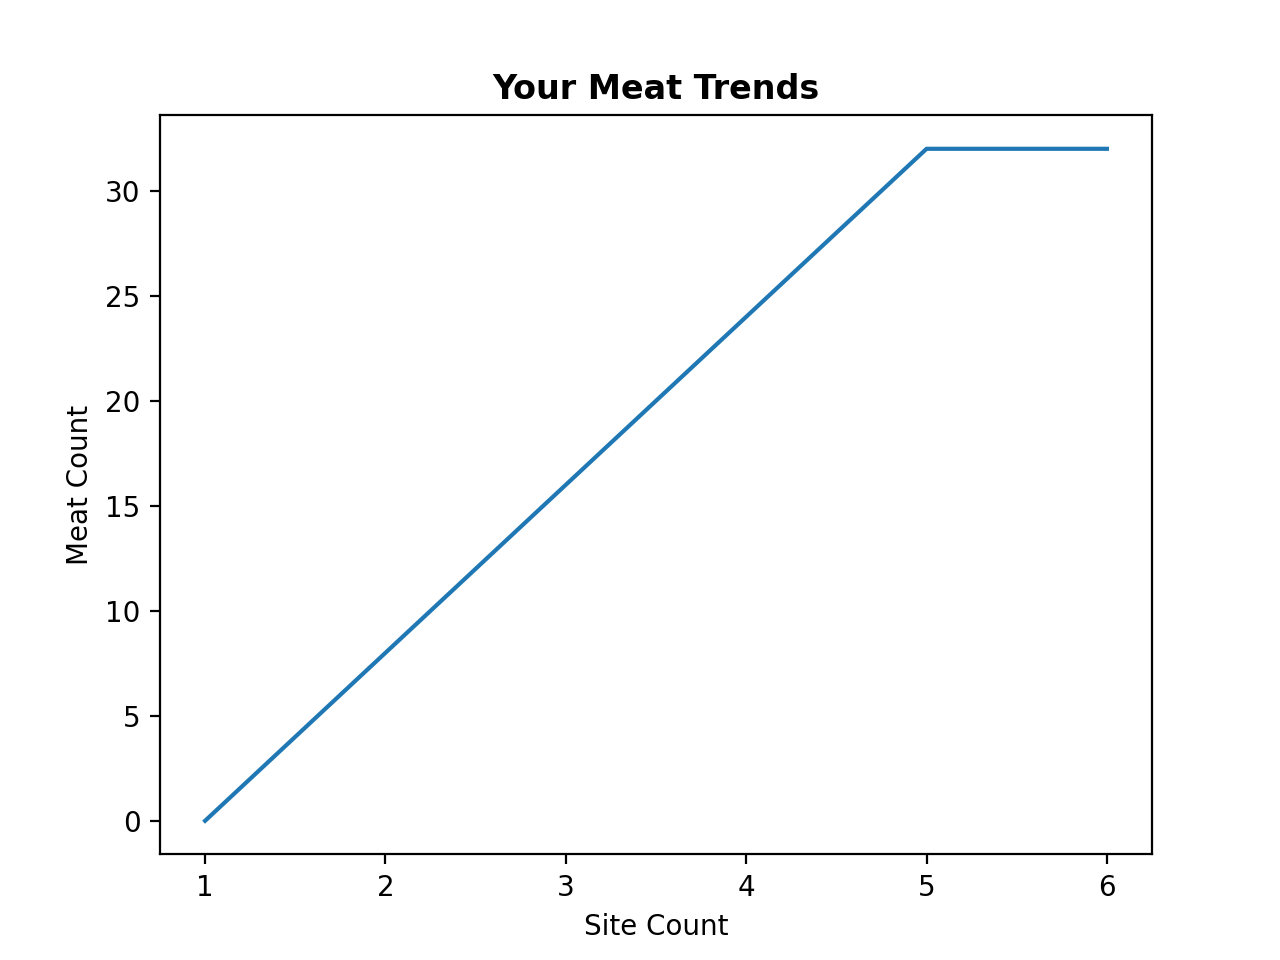
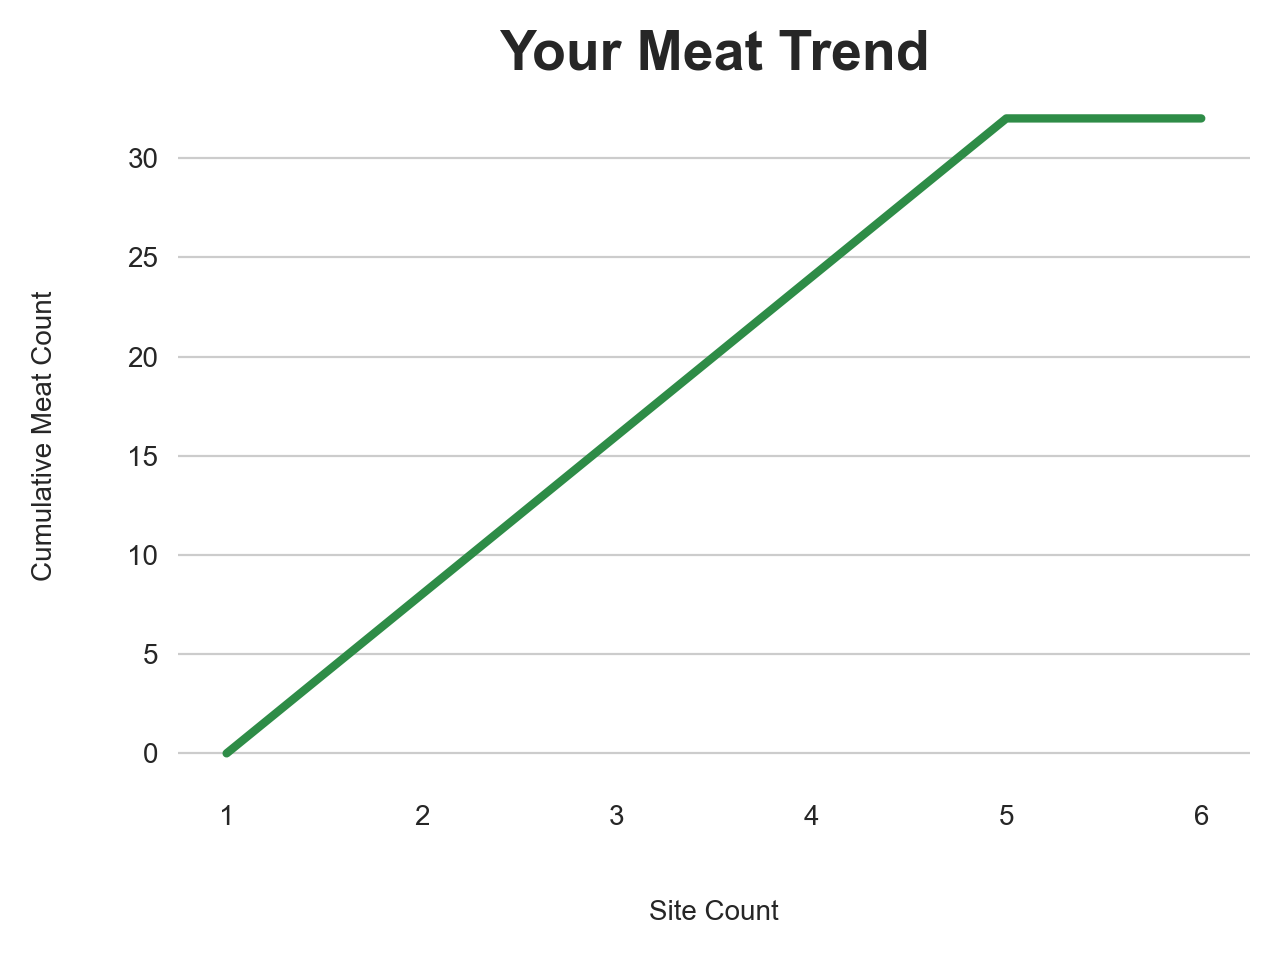
adding viz

diff --git a/HoyaHacks_pt2/flask_server.py b/HoyaHacks_pt2/flask_server.py
@@ -12,7 +12,7 @@ from matplotlib.figure import Figure
 
 from web_scraping import get_meats
 
-from random import choice
+from random import choice, randint
 from numpy import cumsum
 
 app = FlaskAPI(__name__)
@@ -74,9 +74,11 @@ def is_meat(input_url):
     return pass_back
 
 #PLOTS:
-#  -Meat trends over time
 #  -CO2 emissions reduction becuase of the meat that you didn't eat
 #  -Money savings
+#    -400g a day ==> 0.133 kilos a meal
+#    -1 kilo = 44.6 car miles of CO2 emission on avg
+#    ->Count the meals
 @app.route('/plots', methods = ['GET'])
 def make_plots():
     #Get meat count data
@@ -93,27 +95,59 @@ def make_plots():
     time_trend = cumsum(time_trend)
     x_axis = [i for i in range(1, len(time_trend) + 1)]
 
+    sns.set_style('whitegrid')
+
     fig = Figure()
     axis = fig.add_subplot(1, 1, 1)
-    sns.lineplot(x = x_axis, y = time_trend, ax = axis)
-    axis.set_title('Your Meat Trends', **{'fontweight' : 'bold'})
+    sns.lineplot(x = x_axis, y = time_trend, ax = axis, color = '#9c4c4c', linewidth = 3)
+    axis.set_title('Your Meat Trend', **{'fontweight' : 'bold', 'size' : 20})
     axis.set_xticks(range(1, len(time_trend) + 1))
     axis.set_yticks(range(0, max(time_trend) + 1, 5))
-    axis.set_xlabel('Site Count')
-    axis.set_ylabel('Meat Count')
+    axis.set_xlabel('Site Count', labelpad = 20)
+    axis.set_ylabel('Cumulative Meat Count', labelpad = 20)
+    axis.grid(False, axis = 'x')
+    axis.spines['right'].set_visible(False)
+    axis.spines['left'].set_visible(False)
+    axis.spines['top'].set_visible(False)
+    axis.spines['bottom'].set_visible(False)
 
-    plt_fp = 'meat_trend.png'
-    fig.savefig(plt_fp, dpi = 200)
+    plt_fp1 = 'meat_trend' + str(randint(0, 1000)) + '.png'
+    fig.tight_layout()
+    fig.savefig(plt_fp1, dpi = 200)
+
+    #CO2 reduction plot
+    had_meat = sum([our_person[s] > 0 for s in sorted(our_person) if s != 'meat_ct'])
+    ttl_meals = len(time_trend)
+    meat_eater = 0.133 * 44.6 * ttl_meals
+    our_person = 0.133 * 44.6 * had_meat
+
+    fig = Figure()
+    axis = fig.add_subplot(1, 1, 1)
+    axis.stem(['You'], [our_person], basefmt = ' ', linefmt = 'g', markerfmt = 'go')
+    axis.stem(['Meat Eater'], [meat_eater], basefmt = ' ', linefmt = 'r', markerfmt = 'ro')
+    axis.set_title('Carbon Emissions Reduction', **{'fontweight' : 'bold', 'size' : 20})
+    axis.set_ylabel('CO2 Emissions (car miles)', labelpad = 20)
+    axis.grid(False, axis = 'x')
+    axis.spines['right'].set_visible(False)
+    axis.spines['left'].set_visible(False)
+    axis.spines['top'].set_visible(False)
+    axis.spines['bottom'].set_visible(False)
+    axis.margins(x = 0.5)
+
+    plt_fp2 = 'C02_savings' + str(randint(0, 1000)) + '.png'
+    fig.savefig(plt_fp2, dpi = 200)
 
     #Push the plot into firebase + get URL
+    urls = []
     bucket = storage.bucket()
-    blob = bucket.blob(plt_fp)
-    blob.upload_from_filename(plt_fp)
+    for fp in [plt_fp1, plt_fp2]:
+        blob = bucket.blob(fp)
+        blob.upload_from_filename(fp)
 
-    blob.make_public()
-    plt_url = blob.public_url
+        blob.make_public()
+        urls.append(blob.public_url)
 
-    return {'urls' : [plt_url]}
+    return {'urls' : [urls]}
 
 if __name__ == '__main__':
     app.run(debug = True)

diff --git a/HoyaHacks_pt2/misc_testing.py b/HoyaHacks_pt2/misc_testing.py
@@ -75,7 +75,9 @@ if True:
     from matplotlib.figure import Figure
     from numpy import cumsum
 
-    our_person = {'site_1' : 3, 'site_2' : 4, 'meat_ct' : 90}
+    sns.set_style('whitegrid')
+
+    our_person = {'site_1' : 3, 'site_2' : 4, 'site_3' : 0, 'meat_ct' : 90}
     site_nums = [int(s.split('_')[1]) for s in our_person.keys() if s.split('_')[0] == 'site']
 
     time_trend = [our_person[s] for s in sorted(our_person) if s != 'meat_ct']
@@ -84,11 +86,39 @@ if True:
     x_axis = [i for i in range(1, len(time_trend) + 1)]
     print(x_axis)
 
+    had_meat = sum([our_person[s] > 0 for s in sorted(our_person) if s != 'meat_ct'])
+    ttl_meals = len(time_trend)
+    meat_eater = 0.133 * 44.6 * ttl_meals
+    our_person = 0.133 * 44.6 * had_meat
+    print(meat_eater, our_person)
+
     fig = Figure()
     axis = fig.add_subplot(1, 1, 1)
-    sns.lineplot(x = x_axis, y = time_trend, ax = axis)
-    axis.set_xticks(range(1, len(time_trend) + 1))
-    axis.set_yticks(range(0, max(time_trend) + 1))
+    # axis.stem(['You', 'Meat Eater'], [our_person, meat_eater], basefmt = ' ', color = '#9c4c4c')
+    axis.stem(['You'], [our_person], basefmt = ' ', linefmt = 'g', markerfmt = 'go')
+    axis.stem(['Meat Eater'], [meat_eater], basefmt = ' ', linefmt = 'r', markerfmt = 'ro')
+    axis.set_title('Carbon Emissions Reduction', **{'fontweight' : 'bold', 'size' : 20})
+    axis.set_ylabel('CO2 Emissions (car miles)')
+    axis.grid(False, axis = 'x')
+    axis.spines['right'].set_visible(False)
+    axis.spines['left'].set_visible(False)
+    axis.spines['top'].set_visible(False)
+    axis.spines['bottom'].set_visible(False)
+    axis.margins(x = 0.5)
 
-    plt_fp = 'meat_trend.png'
+    plt_fp = 'C02_savings.png'
     fig.savefig(plt_fp, dpi = 200)
+
+    # fig = Figure()
+    # axis = fig.add_subplot(1, 1, 1)
+    # sns.lineplot(x = x_axis, y = time_trend, ax = axis, linewidth = 1.5, color = '#2e8c47')
+    # axis.set_xticks(range(1, len(time_trend) + 1))
+    # axis.set_yticks(range(0, max(time_trend) + 1))
+    # axis.grid(False, axis = 'x')
+    # axis.spines['right'].set_visible(False)
+    # axis.spines['left'].set_visible(False)
+    # axis.spines['top'].set_visible(False)
+    # axis.spines['bottom'].set_visible(False)
+    #
+    # plt_fp = 'meat_trend.png'
+    # fig.savefig(plt_fp, dpi = 200)
